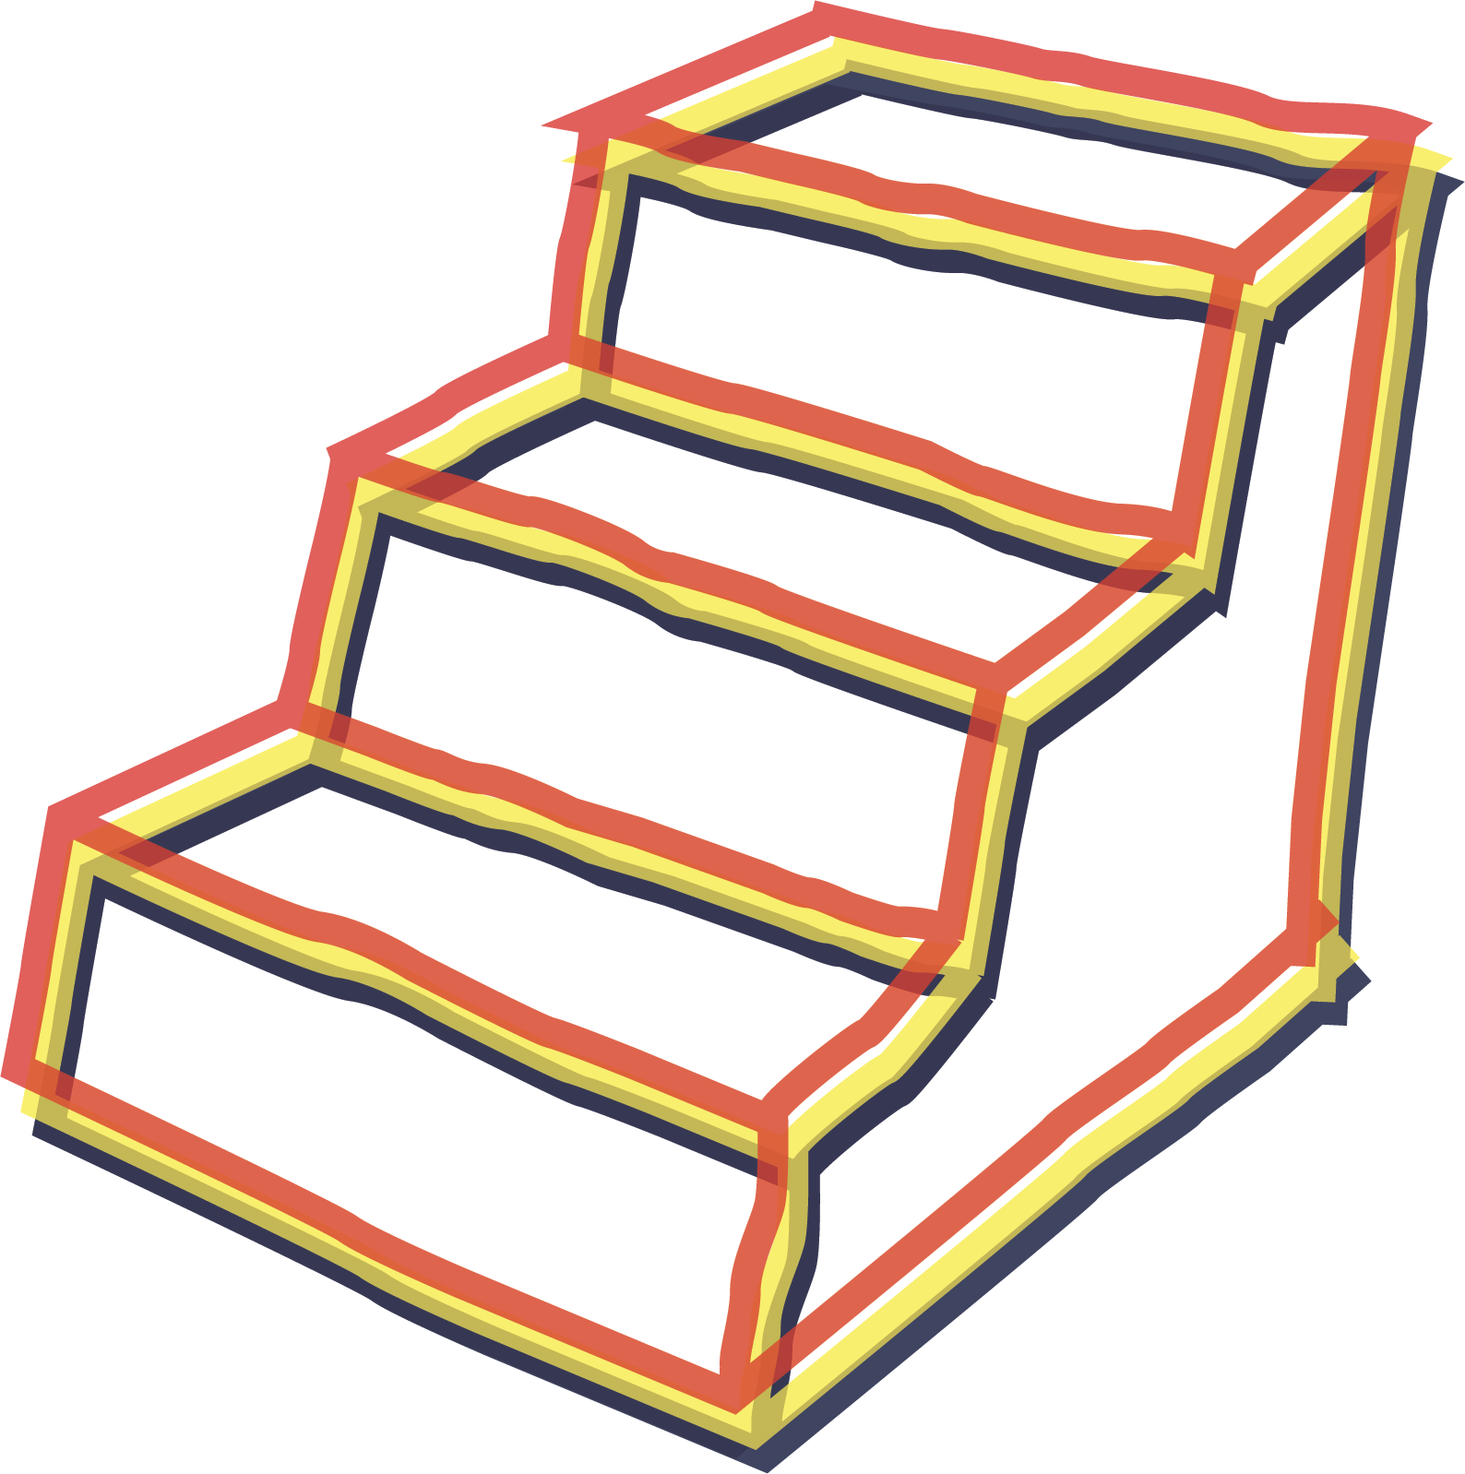
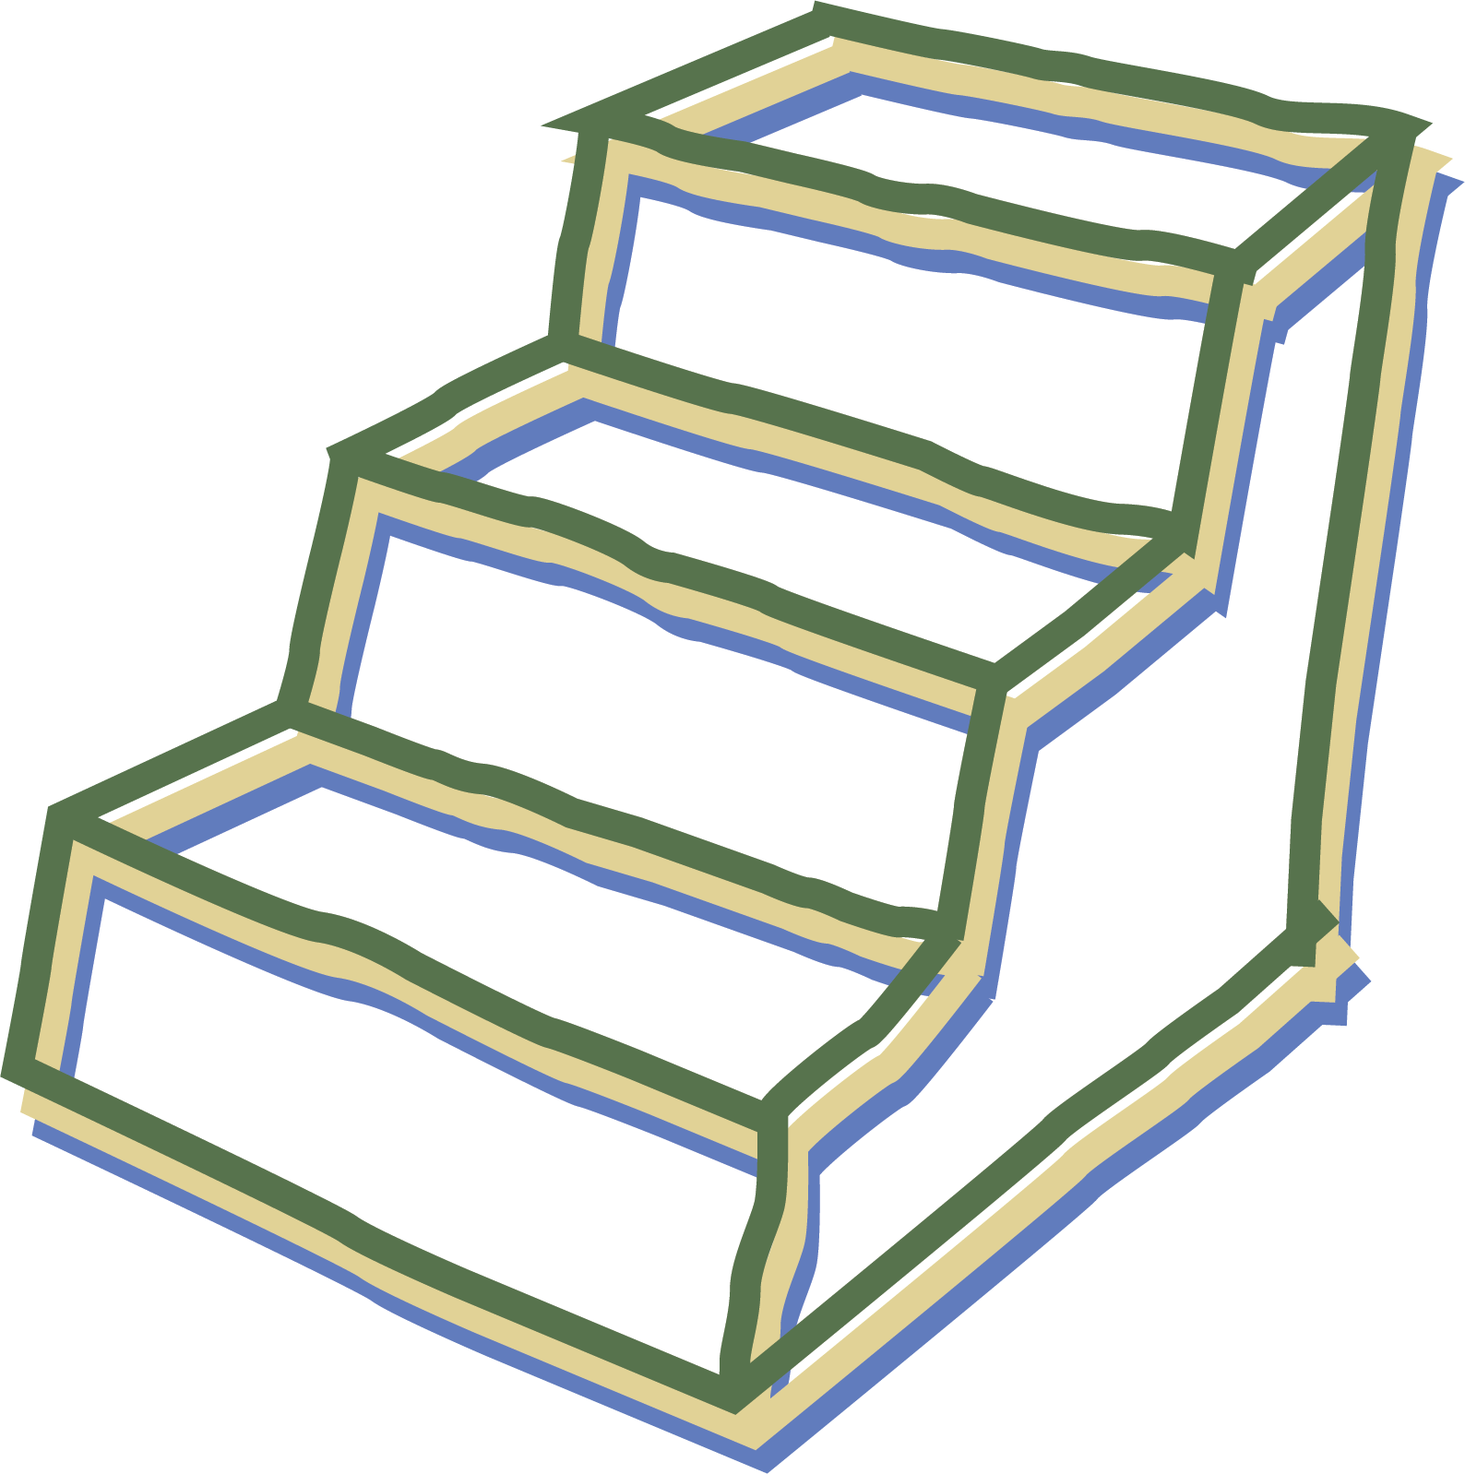
1

diff --git a/abstractandconformity.html b/abstractandconformity.html
@@ -1,0 +1,93 @@
+<!doctype html>
+<html>
+<head>
+<link rel="stylesheet" href="https://use.typekit.net/twt3wky.css">
+<link rel="stylesheet" href="https://use.typekit.net/wya2inp.css">
+<link rel="stylesheet" href="https://use.typekit.net/wya2inp.css">
+<link rel="stylesheet" href="https://use.typekit.net/wya2inp.css">
+		<link rel="shortcut icon" type="image/png" href="favicon.png">
+<meta charset="UTF-8">
+<title>Word | Lucien Stairs</title>
+<link href="Style.css" rel="stylesheet" type="text/css">
+<script type="text/javascript">
+function MM_swapImgRestore() { //v3.0
+  var i,x,a=document.MM_sr; for(i=0;a&&i<a.length&&(x=a[i])&&x.oSrc;i++) x.src=x.oSrc;
+}
+function MM_preloadImages() { //v3.0
+  var d=document; if(d.images){ if(!d.MM_p) d.MM_p=new Array();
+    var i,j=d.MM_p.length,a=MM_preloadImages.arguments; for(i=0; i<a.length; i++)
+    if (a[i].indexOf("#")!=0){ d.MM_p[j]=new Image; d.MM_p[j++].src=a[i];}}
+}
+
+function MM_findObj(n, d) { //v4.01
+  var p,i,x;  if(!d) d=document; if((p=n.indexOf("?"))>0&&parent.frames.length) {
+    d=parent.frames[n.substring(p+1)].document; n=n.substring(0,p);}
+  if(!(x=d[n])&&d.all) x=d.all[n]; for (i=0;!x&&i<d.forms.length;i++) x=d.forms[i][n];
+  for(i=0;!x&&d.layers&&i<d.layers.length;i++) x=MM_findObj(n,d.layers[i].document);
+  if(!x && d.getElementById) x=d.getElementById(n); return x;
+}
+
+function MM_swapImage() { //v3.0
+  var i,j=0,x,a=MM_swapImage.arguments; document.MM_sr=new Array; for(i=0;i<(a.length-2);i+=3)
+   if ((x=MM_findObj(a[i]))!=null){document.MM_sr[j++]=x; if(!x.oSrc) x.oSrc=x.src; x.src=a[i+2];}
+}
+</script>
+</head>
+<header class="sticky" onLoad="MM_preloadImages('Asset 6.png')">
+  <a href="home.html" onMouseOut="MM_swapImgRestore()" onMouseOver="MM_swapImage('Image2','','Asset 6.png',1)"><img src="Asset 5.png" alt="" width="125" height="121" id="Image2" class="image"></a>
+
+	
+</header>
+<body >
+<div class="container">
+  <h1 class="headertext"> <em>Abstract</em> and Conformity</h1>
+	<h1 class="headertextauthor"> Lucien Stairs // April, 2021</h1>
+<p class= "quotationwords"><em>Working and consuming from our houses, wired happily into what Harper’s magazine has called the electronic hive, we will each be corporate subjects—consumers and providers of “content”—as surely we were the hapless industrial proletarians of the last century.</em></p>
+		<p class="quotation">—Thomas Frank, The New Gilded Age, 1995</p>
+
+<p class= "articlewords">No longer can culture, at least in its commodifiable forms, be regarded as anything other than an economic dynamo driving consumption. In the twenty-five years since Thomas Frank wrote <em>The New Gilded Age</em>, America’s Culture Trust—the established cabal of content providers, media conglomerates, and, most recently, tech companies—remains a bloated beast, doubled down on the doctrines of consolidation, pacification, and consumption; bolstered by our increasingly online, digital society. Put simply, the electronic hive buzzes on.  </p>
+	
+<p class= "articlewords">The advent of streaming initially promised a cost effective, democratized alternative to cable. <em>Cutting the cord</em> was an act of liberation, a way of escaping the clutches of <em>the man </em>and his increasingly complex packaged deals of propagandistic advertisements. Physical rentals were a declining industry and the expansion of widespread broadband in conjunction with an influx of affordable, internet enabled media devices contributed to streaming’s meteoric growth. Since the initial release of its streaming platform in 2007, Netflix has grown to have a market capitalization of 248 billion dollars and a global subscriber base nearing 200 million.  </p>
+
+<p class= "articlewords">A quick browse of Netflix’s streaming library induces a crippling sensation, as if you’re drowning in a sea of endless choice. An excessive quantity of algorithmically produced content washes over you. All this in an effort to lull you into a gluttonous, binge-induced trance, unable to question the value of your automatic monthly subscription. Free from the advertising industry’s sweaty grasp, it seems that Netflix executives have chosen to prize quantity and variety above quality or longevity. That is to say, each month they throw an overflowing fistful of programs at a crowd of 200 million, confident that something will inevitably justify another month of monotony. And still, despite altogether lackluster programming, I would be hard-pressed to overstate the platform’s hegemonic hold on the zeitgeist.
+ </p>
+	
+<p class= "articlewords">On February 10th, 2017, the company released an eight part documentary series titled <em>Abstract: The Art of Design</em> as part of its ever expanding campaign to produce original content. From its opening moments, it is clear that <em>Abstract </em>is extremely cool. At least, it desperately wants you to think so. The titles are colorful and flash onto the screen in an intentionally creative manner. The typefaces are minimalist and sans-serif. The score is both momentously orchestral and excitingly electronic. In 2019, it was even nominated for an Emmy Award for Outstanding Main Title Design. Everything here is refined and carefully designed. Admittedly, this is all to be expected for a show dedicated to documenting the titans of graphic design, architecture, typography, art, and everything in between.  </p>
+	
+<p class= "articlewords">With its shine and high production value, <em>Abstract</em> purposes to appeal to a broad audience. In accordance with most Netflix programming, it is accessible without being boring. That is, it is impossible to be bored because you are only ever a few moments away from a new and exciting animation or montage or, best of all, sequence of cinematic drone footage. Content be damned, this is the age of constant visual stimulation. Despite making you feel like you’re probably learning something, <em>Abstract </em>feigns depth and intellect without offering more than an ounce of critical reflection. Of course, the documentary medium is far from objective, with every aspect of a production instrumental in advocating for a specific ideology. For <em>Abstract, </em>that comes in the form of idolizing iconic designers in a realm ultimately devoid of context, consequence, and meaningful criticism. As a tool for indoctrination, it depicts the commercialization of art as culturally significant self expression. In this regard, it is a brutally honest representation of the broader relationship between art and capital. </p>
+	
+<p class= "words"> ***</p>
+<p class= "articlewords"> Bjarke Ingels, architecture’s preeminent wunderkind, is mischievous, self-obsessed, and startlingly seductive. In 2016, he was named one of <em>TIME</em> magazine’s one hundred most influential people. Rem Koolhaas, Ingles’ arguable predecessor, wrote the tribute:
+ </p>
+<p class="quotationwords"><em>Contrary to many, maybe including himself, I do not consider Bjarke Ingels the reincarnation of this or that architect from the past. On the contrary, he is the embodiment of a fully-fledged new typology, which responds perfectly to the current zeitgeist. Bjarke is the first major architect who disconnected the profession completely from angst. He threw out the ballast and soared. With that, he is completely in tune with the thinkers of Silicon Valley, who want to make the world a better place without the existential hand-wringing that previous generations felt was crucial to earn utopianist credibility. </em></p>
+<p class="quotationwords"><em>We are friends. Once, during lunchtime, I used his office to prepare a competition presentation. (We lost.) On the menu that day was quiche. Wow, I wondered, so you can do great architecture without violating anyone’s comfort zone?</em></p>
+	<p class="quotation">—Rem Koolhaas, <em>TIME</em> , 2016</p>	
+
+<p class= "articlewords">I cannot help but view these two paragraphs as a scathing, tongue-in-cheek critique of Ingels’ oversized ego. Likening him to a Silicon Valley thinker is remarkably appropriate. A lack of existential handwringing being one step closer to <em>we were so busy trying to see if we could, we failed to ask if should</em> and one step too far from meaningful reflection. Quite literally, he manages to have his quiche and eat it too. This, it appears, is at the crux of his identity as a designer. Koolhaas has managed a near perfect characterization; one that Ingels, himself, is likely very proud of. It follows, then, that in almost every respect, vapidity included, he is the perfect subject for <em>Abstract’s </em>interminable style. 
+</p>
+
+<p class= "articlewords">His episode opens with a scene from Christopher Nolan’s <em>Inception</em>. Buildings bend to Leonardo DiCaprio’s will, breaking the rules of convention and showcasing the infinite potential of the dream state while Ingels’ mentions something about architecture’s ability to realize pure fiction. Far from flashy, innocuous drivel, this moment represents Ingels’ particularly poisoned worldview—that of the <em>playful</em> starchitect.</p>
+
+<p class= "articlewords">The biography continues, posing as the story of a misunderstood protagonist rising through the ranks of his field against all odds. Despite the skeptics, Bjarke has emerged as the designer for the modern age—and did I mention how young he is? His critics are presented either as internet trolls or paternalistic figures worried that he may be spread too thin or be working too hard. Where the former is immediately dismissed as unworthy of attention, the latter would be more convincing as a response to the prompt <em>name your biggest weakness</em> than as valid constructive criticism.  </p>
+	
+<p class= "articlewords">Currents of idealism run strongly through the episode. Ingles constantly constructs sentences with the words: “pragmatic utopia” or “you can do it all, you don’t have to choose”. Speaking about <em>CopenHill</em>, his highly popular ski-slope-on-a-powerplant, Ingels claims that the building’s chimney, “instead of a symbol of pollution, becomes a celebration.” A celebration because of his unrealized intention to transform its traditional plume into a cartoonish smoke ring, I guess.</p>
+	
+<p class= "articlewords">This notion of fun, or playfulness, is the primary distinction between Ingles architecture and the austere, modernist utopian visions of yore. Still, I have a hard time believing that his structures, often completely devoid of recognizable typology, traditional convention, and made primarily out of glass and steel, will age any more favorably than Le Corbusier’s Plan Voisin or Costa and Niemeyer’s Brasilia. Though, Ingels doesn’t seem to care. He believes that a city’s skyline should be made up of iconic silhouettes rather than contribute to a cohesive, vernacular urban fabric. Certainly, he is not alone in this regard. From Postmodernism to the current, hyper-individualistic style, the contemporary architectural establishment has been obsessed with buildings that make a statement; unfazed by their obvious lack of timelessness. </p>
+	
+<p class= "articlewords"> <em>Masterplanet</em>, his brand new technocratic plan to address climate change, flawlessly replicates the arrogant, playfully aloof ideology seething from his <em>Abstract</em> appearance. It touts an approach to sustainability that improves our standard of living <em>while</em> saving the planet. Though, it lacks localized subtlety and is bursting with egotism. Madeline Roache, who interviewed Ingels for <em>TIME</em>, rightly points out his colonialist mindset in drafting the plan. Of course, an international, unified strategy to combat global climate destabilization and its impending consequences is desperately needed. It’s just that Ingels shouldn’t be the one to draft it. Though, he plans to release a ten-part documentary series detailing the main points of his plan—which is fitting considering his biggest strength may be his hypnotically convincing way of presenting a proposal. He is seductive, a businessman through and through.</p>
+	
+<p class="articlewords"><em>Abstract’s</em> visuals, music, and editing choices expertly reflect the affable grandeur of Ingels’ utopian idealism and architecture’s remarkable ability to realize it. Revealingly, his adolescent dreams of environmentalism are a running theme throughout the episode. Though, in typical greenwashing fashion neither Ingles, nor the showrunners, care to discuss any concrete examples of his sustainable achievements. That is not to mention the glaring failure to acknowledge architecture’s remarkable impact on our environment, writ large. Like <em>Abstract </em>itself, Ingles has a knack for masking a complete lack of substance in an eye-catching façade. The episode concludes cyclically, where it began. Ingels presents an alarming dichotomy divorced from nuance and rooted in fiction: We can either use the immense power we possess over our environment to create a nightmare or to realize our dreams. <em>He</em> is in the dream business. </p>
+	
+<p class= "words"> ***</p>
+<p class="quotationwords"><em>Consumerism is no longer about conformity; it is about difference. </p></em>
+	
+<p class="quotation">—Thomas Frank, Why Johnny Can’t Dissent, 1995</p>
+	
+<p class="articlewords">Individualism and expression, once considered rebellion from the stark obedience of puritanical suburbia, have long since become the hallmark buzzwords of consumerism; representative of a new brand of conformity. Silicon Valley, that perfect amalgamation of Stewart Brand’s cybernetic optimism and the leaching tendrils of big business, was literally born co-opting countercultural attitudes. Despite posing as champions of the hip and the revolutionary, nowhere could you find a more homogenous idolatry of the market, technology, and capital. </p>
+
+<p class="articlewords">Netflix—part Silicon Valley tech company, part Culture Trust media conglomerate—has managed to adopt the faux-countercultural attitudes of the former while building upon the consolidation and pacification of the latter, all in the name of consumption. Not only was its business model <em>revolutionary</em>, it necessarily <em>liberated</em> its customers by providing an endlessly diverse buffet of choice, free from ads. And yet, <em>Abstract</em>, a show undoubtedly focused on self-expression, is little more than a cleverly devised advertisement for Corporate America; a 45-minute infomercial selling you beautiful cars, shoes, graphics, education, architecture, and applications where Chrysler, Nike, Pentagram, MIT, BIG, and Facebook are the real stars of the show. The designers represent the tangible and friendly face of these corporations, ultimately humanizing them. Their personal narrative and benevolence become misconstrued as that of the company they work for.&nbsp;</p>
+
+<p class="articlewords">Further, <em>Abstract</em> perpetuate’s Silicon Valley’s modus operandi by co-opting the creativity and influence of art and design while disguising the design establishment as countercultural celebrities. Though, a quick glance at the list of some of its stars—Gilles, Hatfield, Scher, Oxman, Ingels, and Spalter—reveals the truth. These people are the establishment and they are selling you an ideology, if not an outright product. Much like Ingles’ ideal skyline, they are hugely influential and icons in their respective fields, but they are not iconoclasts. Conformity, albeit through the fetishization of individualism, is endemic rather than anathema to the establishment. Still, the show is called abstract, presenting change-makers and visionaries who have transformed design forever. It seems much more plausible that these designers have, in fact, perpetuated the existing ideologies of design and capital; dressing them up in new clothes, or disguising them as an artificial ski slope, for example.&nbsp; </p>
+
+<p class="articlewords"> <em>Abstract</em> does not showcase design for design’s sake, or art for art’s sake. Instead, in bad faith, it transforms these modes of expression—of individual self-expression—into an avenue for capital and a tool for indoctrination. In this regard, design, much like <em>Abstract</em> itself, is damningly related to consumer marketing. Unfortunately, while this characterization fails to capture the emotionally poignant aspects of expression, it speaks more truth than otherwise in the context of our commercialized society. </p>
+	

diff --git a/Style.css b/Style.css
@@ -46,24 +46,24 @@
 
 
 a.nav:link {
-    color: #0F1637;
+    color: #637CBD;
     text-decoration: none;
 }
 a.nav:visited {
-color: #0F1637;
+color: #637CBD;
 	text-decoration: none;}
 a.nav:hover {
-color: #DA3832;
+color: #57724C;
 }
 a.navalt:link {
-    color: #DA3832;
+    color: #57724C;
     text-decoration: none;
 }
 a.navalt:visited {
-color: #DA3832;
+color: #57724C;
 	text-decoration: none;}
 a.navalt:hover {
-color: #DA3832;
+color: #57724C;
 }
 .center {
     display: inline-block;
@@ -85,7 +85,7 @@ color: #DA3832;
     font-style: normal;
     font-size: 15pt;
 	text-align:center;
-    color: #0F1637;
+    color: #000000;
     margin-left: 20%;
     margin-right: 20%;
     margin-top: 50px;
@@ -93,7 +93,7 @@ color: #DA3832;
 .headertext{ 
 	font-family: turnip, serif;
     font-size: 24pt;
-	color: #0F1637;
+	color: #57724C;
     font-weight: 400;
     font-style: normal;
 	text-align: center;
@@ -101,7 +101,7 @@ color: #DA3832;
 .headertextauthor{ 
 	font-family: turnip, serif;
     font-size: 12pt;
-	color: #0F1637;
+	color: #57724C;
     font-weight: 400;
     font-style: normal;
 	text-align: center;
@@ -113,7 +113,7 @@ color: #DA3832;
     font-weight: 200;
     font-style: normal;
     font-size: 12pt;
-    color: #0F1637;
+    color: #000000;
     line-height: 30px;
 }
 .quotation{  background-color: #FFFFFF;
@@ -122,7 +122,7 @@ color: #DA3832;
     font-weight: 200;
     font-style: normal;
     font-size: 12pt;
-    color: #DA3832;}
+    color: #637CBD;}
 .quotationwords{
     background-color: #FFFFFF;
     text-align: left;
@@ -130,7 +130,7 @@ color: #DA3832;
     font-weight: 200;
     font-style: normal;
     font-size: 12pt;
-    color: #DA3832;
+    color: #637CBD;
     line-height: 30px;
 }
 .diagramcaption {
@@ -154,8 +154,8 @@ color: #DA3832;
 
 .container {
 	width: auto;
-	margin-left: 25%;
-	margin-right: 25%;
+	margin-left: 15%;
+	margin-right: 15%;
 margin-top: 5%;}
 
 

diff --git a/index.html b/index.html
@@ -5,10 +5,12 @@
 <link rel="stylesheet" href="https://use.typekit.net/wya2inp.css">
 <link rel="stylesheet" href="https://use.typekit.net/wya2inp.css">
 <link rel="stylesheet" href="https://use.typekit.net/wya2inp.css">
-		<link rel="shortcut icon" type="image/png" href="favicon.png">
+			<link rel="shortcut icon" type="image/png" href="favicon.png">
+
 <meta charset="UTF-8">
-<title>Home | Lucien Stairs</title>
+<title> Home | Lucien Stairs</title>
 <link href="Style.css" rel="stylesheet" type="text/css">
+
 <script type="text/javascript">
 function MM_swapImgRestore() { //v3.0
   var i,x,a=document.MM_sr; for(i=0;a&&i<a.length&&(x=a[i])&&x.oSrc;i++) x.src=x.oSrc;
@@ -35,13 +37,13 @@ function MM_swapImage() { //v3.0
 </head>
 <header class="sticky" onLoad="MM_preloadImages('Asset 6.png')">
   <a href="home.html" onMouseOut="MM_swapImgRestore()" onMouseOver="MM_swapImage('Image2','','Asset 6.png',1)"><img src="Asset 5.png" alt="" width="125" height="121" id="Image2" class="image"></a>
-	  <div class="header"><p class="textlinks"> <a href="word.html" class=nav>word</p></a>
-	<p class="textlinks"> <a href="diagram.html" class=nav>diagram</p></a> </div>
+
 	
 </header>
 <body >
 
-		<p class="words"> </p>
-		<p class="words">Here, I have constructed a place where I can indulge in contradictions and criticisms and observations and musings and redundancies and redundancies and ramblings. </p>
+		<div class="container">
+	<p class="words"> <a href=abstractandconformity.html class=nav><em>Abstract</em> and Conformity [April 2021] </a> 
+</div>
 </body>
 </html>

diff --git a/home.html b/home.html
@@ -37,13 +37,13 @@ function MM_swapImage() { //v3.0
 </head>
 <header class="sticky" onLoad="MM_preloadImages('Asset 6.png')">
   <a href="home.html" onMouseOut="MM_swapImgRestore()" onMouseOver="MM_swapImage('Image2','','Asset 6.png',1)"><img src="Asset 5.png" alt="" width="125" height="121" id="Image2" class="image"></a>
-	  <div class="header"><p class="textlinks"> <a href="word.html" class=nav>word</p></a>
-	<p class="textlinks"> <a href="diagram.html" class=nav>diagram</p> </a></div>
+
 	
 </header>
 <body >
 
-		<p class="words"> </p>
-		<p class="words">Here, I have constructed a place where I can indulge in contradictions and criticisms and observations and musings and redundancies and redundancies and ramblings. </p>
+		<div class="container">
+	<p class="words"> <a href=abstractandconformity.html class=nav><em>Abstract</em> and Conformity [April 2021] </a> 
+</div>
 </body>
 </html>
